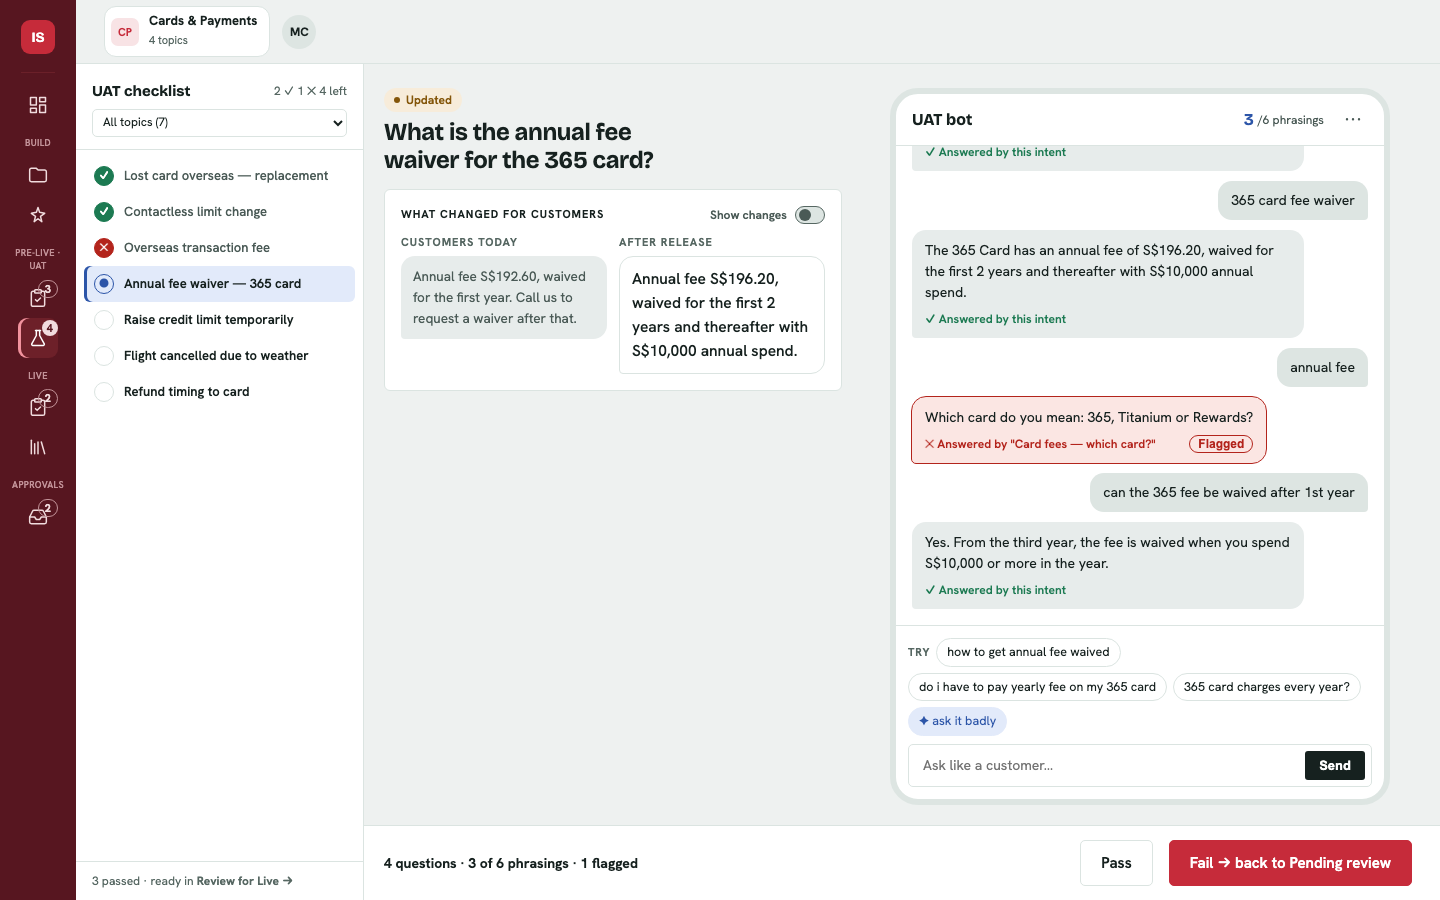
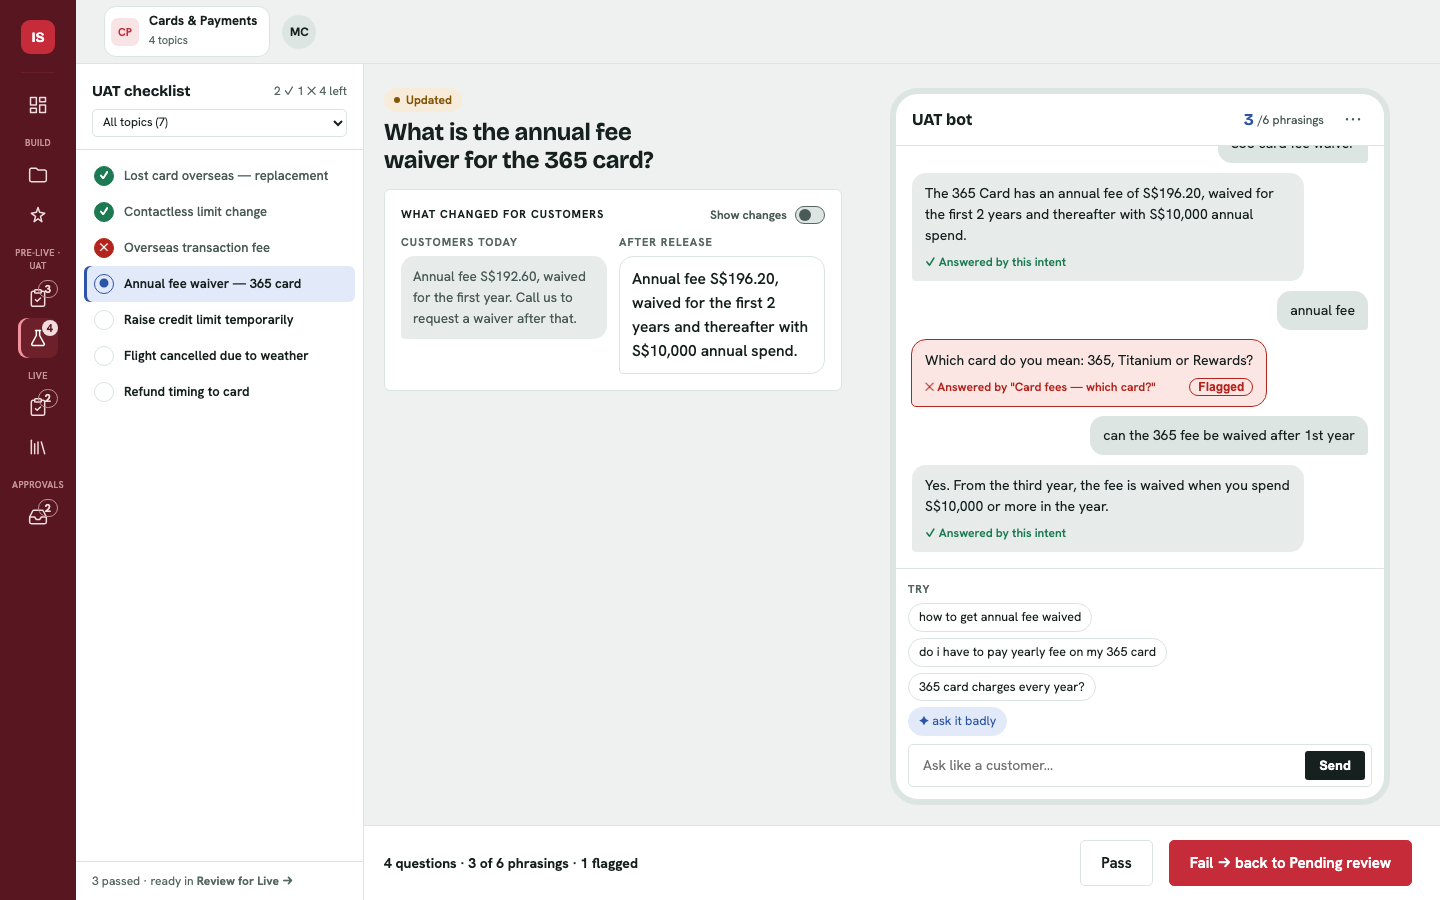
design(uat): phrasing pills one per line
Claude-Session: https://claude.ai/code/session_0118dYKHurDLsxt3MXXKWWjQ

Changed region(s): [[0.625, 0.3111, 0.9688, 0.7778], [0.625, 0.1556, 0.9688, 0.3422]]

diff --git a/mockups/proof-screen-uat.html b/mockups/proof-screen-uat.html
@@ -314,6 +314,8 @@ h1{font-size:28px;line-height:1.18;margin-top:10px}
 .dc .qh b{grid-column:1}.dc .qh::after{grid-column:2;grid-row:1;align-self:center}
 .dc .qt{grid-column:1/3;width:100%}
 .pin .sw{display:flex;align-items:center;gap:8px;cursor:pointer}
+.dc .sugg{flex-direction:column;align-items:flex-start;gap:6px}
+.dc .sugg .chip{text-align:left;max-width:100%}
 :focus-visible{outline:2px solid var(--accent);outline-offset:2px}
 </style></head>
 <body>

diff --git a/docs/poc/design-system.md b/docs/poc/design-system.md
@@ -70,7 +70,7 @@ Inherits the base: `--ease-out`, about 150–200ms for state changes, and the bo
 
 - **Test page = three columns:** checklist · intent · UAT bot. Removed from the screen: the breadcrumb, the UAT/topic/submitter tags (who submitted is now a tooltip on the h1), the phrasing card, the "Customer view" label, the artefact pill, the v2 rail (kept in code only), and the checklist sub-lines and segmented bar.
 - **Checklist header:** title plus a one-line tally ("2 ✓ 1 ✕ 4 left"), then the topic select. Rows are one line.
-- **Phrasings in the bot:** a "TRY" row of pills above the composer, one per untried utterance (`--bg` fill, 1px `--border`, 999px radius, 12.5px). "✦ ask it badly" is a `--prelive-bg` pill. Asked pills disappear. Owner: "don't condense … show them as quick pills (proposals) then if user wants, they type in their own".
+- **Phrasings in the bot:** a "TRY" stack of pills above the composer, **one pill per line**, one per untried utterance (`--bg` fill, 1px `--border`, 999px radius, 12.5px). "✦ ask it badly" is a `--prelive-bg` pill. Asked pills disappear. Owner: "don't condense … show them as quick pills (proposals) then if user wants, they type in their own".
 - **Bot header:** "UAT bot", then "X/6 phrasings" (X in `--prelive`), then a "⋯" menu holding match details.
 - **Flag:** visible on hover or focus only; "Flagged" is always visible.
 - **Decision bar:** a one-line summary, then Pass / Fail. No sub-text.
